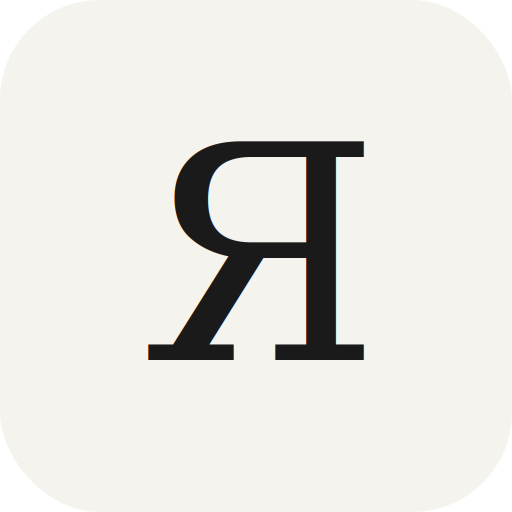
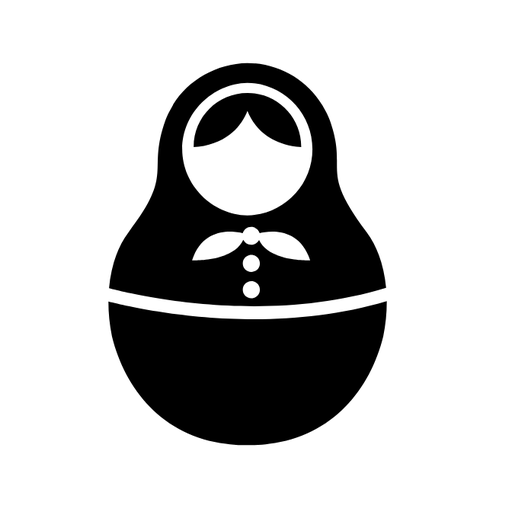
Add files via upload

Changed region(s): [[0.1875, 0.125, 0.7812, 0.875]]

diff --git a/index.html b/index.html
@@ -3,11 +3,11 @@
 <head>
 <meta charset="UTF-8">
 <meta name="viewport" content="width=device-width, initial-scale=1.0">
-<title>Russian Tools</title>
+<title>Русский</title>
 <link rel="manifest" href="manifest.json">
 <meta name="apple-mobile-web-app-capable" content="yes">
 <meta name="apple-mobile-web-app-status-bar-style" content="default">
-<meta name="apple-mobile-web-app-title" content="Russian">
+<meta name="apple-mobile-web-app-title" content="Русский">
 <meta name="theme-color" content="#f5f3ee">
 <style>
   * { box-sizing: border-box; margin: 0; padding: 0; }
@@ -21,9 +21,9 @@
     justify-content: center;
     padding: 2rem 1rem;
   }
-  .container { width: 100%; max-width: 400px; }
-  h1 { font-size: 1.6rem; font-weight: normal; margin-bottom: 0.3rem; }
-  .subtitle { font-size: 0.85rem; color: #888; margin-bottom: 3rem; }
+  .container { width: 100%; max-width: 400px; text-align: center; }
+  h1 { font-size: 2rem; font-weight: normal; margin-bottom: 0.3rem; }
+  .subtitle { font-size: 0.85rem; color: #888; margin-bottom: 2.5rem; }
   .tool-link {
     display: block;
     background: #fff;
@@ -33,17 +33,16 @@
     margin-bottom: 1rem;
     text-decoration: none;
     color: #1a1a1a;
+    text-align: left;
     transition: background 0.15s, border-color 0.15s;
   }
   .tool-link:hover { background: #f0ede6; border-color: #bbb; }
   .tool-title { font-size: 1.1rem; margin-bottom: 0.2rem; }
   .tool-desc { font-size: 0.8rem; color: #888; }
-  .flag { font-size: 2rem; margin-bottom: 1rem; display: block; }
 </style>
 </head>
 <body>
 <div class="container">
-  <span class="flag">🇷🇺</span>
   <h1>Russian Tools</h1>
   <p class="subtitle">Sections 1–3 study aids</p>
   <a class="tool-link" href="ch123_quiz.html">

diff --git a/russian_verb_conjugator.html b/russian_verb_conjugator.html
@@ -7,7 +7,7 @@
 <link rel="manifest" href="manifest.json">
 <meta name="apple-mobile-web-app-capable" content="yes">
 <meta name="apple-mobile-web-app-status-bar-style" content="default">
-<meta name="apple-mobile-web-app-title" content="Russian">
+<meta name="apple-mobile-web-app-title" content="Русский">
 <meta name="theme-color" content="#f5f3ee">
 <style>
   * { box-sizing: border-box; margin: 0; padding: 0; }
@@ -74,7 +74,7 @@
 
   input[type="text"] {
     flex: 1;
-    font-size: 0.95rem;
+    font-size: 16px;
     font-family: Georgia, serif;
     padding: 6px 10px;
     border: 1px solid #ccc;
@@ -83,6 +83,8 @@
     outline: none;
     transition: border-color 0.15s, color 0.15s;
   }
+  .back-btn { display: inline-block; font-size: 0.8rem; color: #888; text-decoration: none; margin-bottom: 1.25rem; }
+  .back-btn:hover { color: #444; }
 
   input[type="text"]:focus { border-color: #999; }
   input.correct { border-color: #81c784; color: #2e7d32; }
@@ -142,6 +144,7 @@
 </head>
 <body>
 <div class="container">
+  <a class="back-btn" href="index.html">← Home</a>
   <h1>Russian Verb Conjugator</h1>
   <p class="subtitle">5 random verbs per session — 30 forms total</p>
 

diff --git a/ch123_quiz.html b/ch123_quiz.html
@@ -7,7 +7,7 @@
 <link rel="manifest" href="manifest.json">
 <meta name="apple-mobile-web-app-capable" content="yes">
 <meta name="apple-mobile-web-app-status-bar-style" content="default">
-<meta name="apple-mobile-web-app-title" content="Russian">
+<meta name="apple-mobile-web-app-title" content="Русский">
 <meta name="theme-color" content="#f5f3ee">
 <style>
   * { box-sizing: border-box; margin: 0; padding: 0; }
@@ -49,10 +49,14 @@
   .results-msg { font-size: 1rem; color: #666; margin-bottom: 2rem; }
   .restart-btn { background: #3a6ea8; color: #fff; border: none; border-radius: 8px; padding: 0.65rem 1.75rem; font-size: 0.95rem; font-family: Georgia, serif; cursor: pointer; transition: background 0.15s; }
   .restart-btn:hover { background: #2d5a8a; }
+  .back-btn { display: inline-block; font-size: 0.8rem; color: #888; text-decoration: none; margin-bottom: 1.25rem; }
+  .back-btn:hover { color: #444; }
+  input[type="text"] { font-size: 16px !important; }
 </style>
 </head>
 <body>
 <div class="container">
+  <a class="back-btn" href="index.html">← Home</a>
   <h1>Russian Quiz</h1>
   <p class="subtitle">Sections 1–3 — 20 random questions from a bank of 200</p>
   <div id="quiz-header">